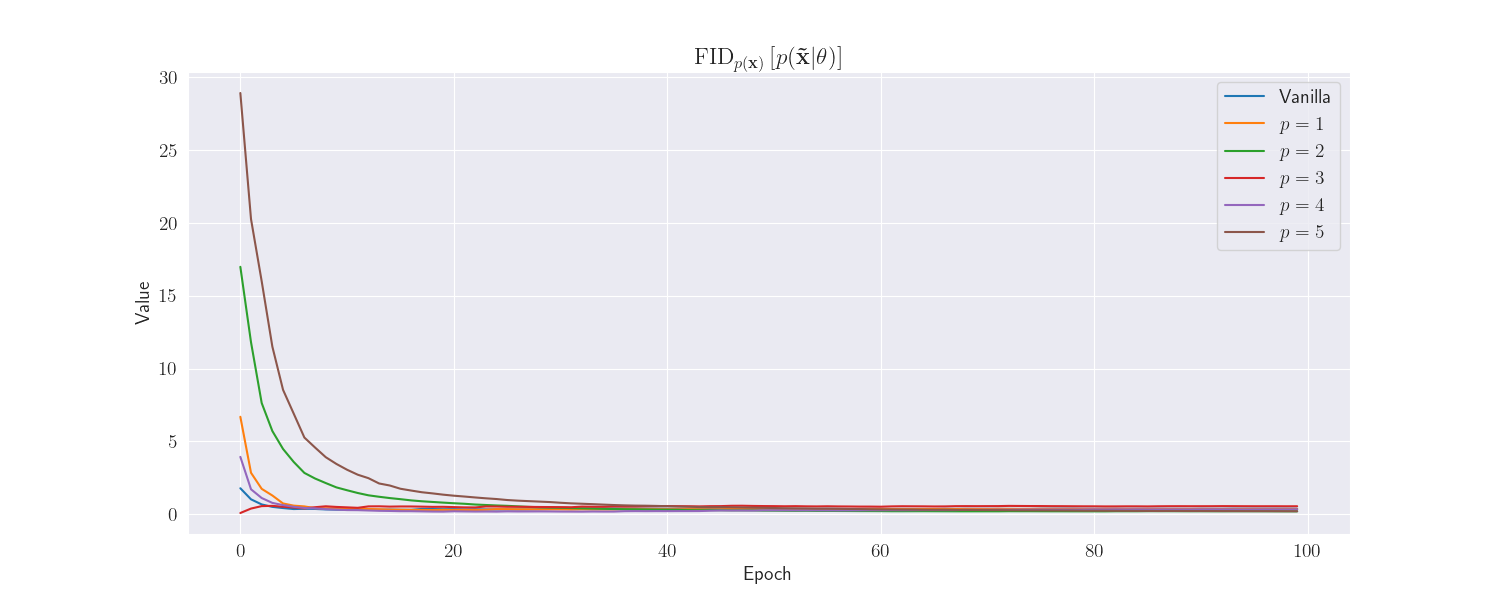
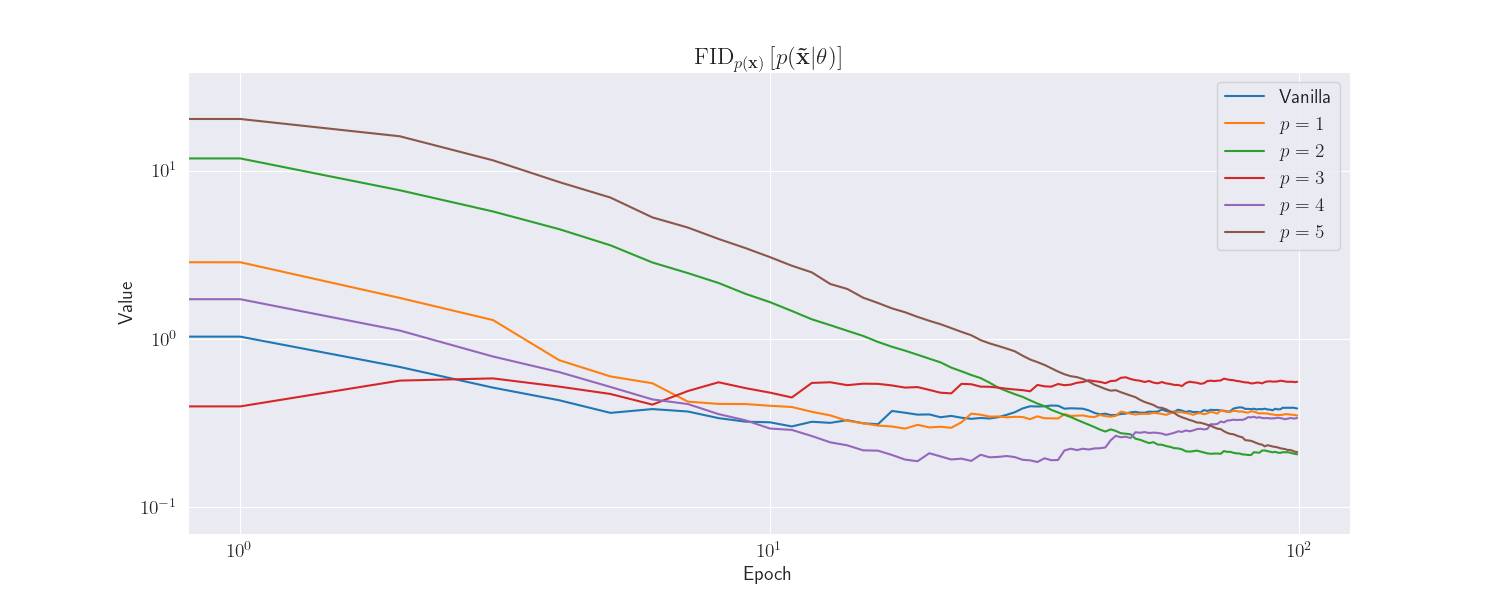
whoops, forget to change the plotting nature to loagrithm. Fixed now

diff --git a/main.py b/main.py
@@ -93,29 +93,29 @@ EBMnet = tiltedpriorEBM(
     langevin_s=E_STEP
 ).to(device)
 
-GENnet = topdownGenerator(
-    input_dim=Z_SAMPLES,
-    feature_dim=GEN_FEATURE_DIM, 
-    output_dim=CHANNELS, 
-    sampler=Sampler,
-    lkhood_sigma=GENERATOR_SIGMA, 
-    langevin_steps=G_SAMPLE_STEPS, 
-    langevin_s=G_STEP,
-    device = device
-).to(device)
-
-# GENnet = temperedGenerator(
+# GENnet = topdownGenerator(
 #     input_dim=Z_SAMPLES,
 #     feature_dim=GEN_FEATURE_DIM, 
 #     output_dim=CHANNELS, 
 #     sampler=Sampler,
-#     lkhood_sigma=GENERATOR_SIGMA,
-#     langevin_steps=G_SAMPLE_STEPS,
+#     lkhood_sigma=GENERATOR_SIGMA, 
+#     langevin_steps=G_SAMPLE_STEPS, 
 #     langevin_s=G_STEP,
-#     num_replicas=NUM_TEMPS,
-#     temp_schedule_power=1,
-#     device=device
+#     device = device
 # ).to(device)
+
+GENnet = temperedGenerator(
+    input_dim=Z_SAMPLES,
+    feature_dim=GEN_FEATURE_DIM, 
+    output_dim=CHANNELS, 
+    sampler=Sampler,
+    lkhood_sigma=GENERATOR_SIGMA,
+    langevin_steps=G_SAMPLE_STEPS,
+    langevin_s=G_STEP,
+    num_replicas=NUM_TEMPS,
+    temp_schedule_power=1,
+    device=device
+).to(device)
 
 # File for saving images
 print(f"Using {GENnet.__class__.__name__} model.")
@@ -200,19 +200,19 @@ for epoch in tqdm_bar:
     expected_gradloss[epoch] = torch.mean(gradLoss_var) # Batch expected variance of zK_GEN for each temperature
     variance_gradloss[epoch] = torch.var(gradLoss_var) # Batch variance of variances of zK_GEN for each temperature
 
-    if (epoch % SAMPLE_BREAK == 0 or epoch == NUM_EPOCHS):
-        generated_data = generate_sample(GENnet, EBMnet).reshape(-1, CHANNELS, IMAGE_DIM, IMAGE_DIM)
-        img_grid = torchvision.utils.make_grid(generated_data, normalize=True)
+    #if (epoch % SAMPLE_BREAK == 0 or epoch == NUM_EPOCHS):
+    generated_data = generate_sample(GENnet, EBMnet).reshape(-1, CHANNELS, IMAGE_DIM, IMAGE_DIM)
+    img_grid = torchvision.utils.make_grid(generated_data, normalize=True)
 
-        writer.add_image(f"Generated Samples -- {FILE} Model", img_grid, global_step=epoch)
+    writer.add_image(f"Generated Samples -- {FILE} Model", img_grid, global_step=epoch)
 
-        # Stores 5 generated samples
-        stored_samples = torch.cat((stored_samples, generated_data[0:9]), dim=0)
+    # Stores 5 generated samples
+    stored_samples = torch.cat((stored_samples, generated_data[0:1]), dim=0)
 
-        # Calculate FID score
-        fid.update(batch.to(device).to(torch.uint8).reshape(-1, CHANNELS, IMAGE_DIM, IMAGE_DIM), real=True)
-        fid.update(generated_data.to(torch.uint8), real=False)
-        FID_scores.append((epoch,fid.compute().cpu().detach().numpy()))
+    # Calculate FID score
+    fid.update(batch.to(device).to(torch.uint8).reshape(-1, CHANNELS, IMAGE_DIM, IMAGE_DIM), real=True)
+    fid.update(generated_data.to(torch.uint8), real=False)
+    FID_scores.append((epoch,fid.compute().cpu().detach().numpy()))
 
         # # Plot the expected variance and variance of variances
         # if GENnet.__class__.__name__ == 'temperedGenerator':

diff --git a/technical_milestone_plotting.py b/technical_milestone_plotting.py
@@ -63,7 +63,7 @@ def plot_results(results, plot_title, plot_labels, save_name):
     """
     plt.figure(figsize=(15, 6))
     for i in range(len(results)):
-        plt.plot(results[i].cpu().numpy(), label=plot_labels[i])
+        plt.loglog(results[i].cpu().numpy(), label=plot_labels[i])
     plt.xlabel("Epoch")
     plt.ylabel("Value")
     plt.legend()
